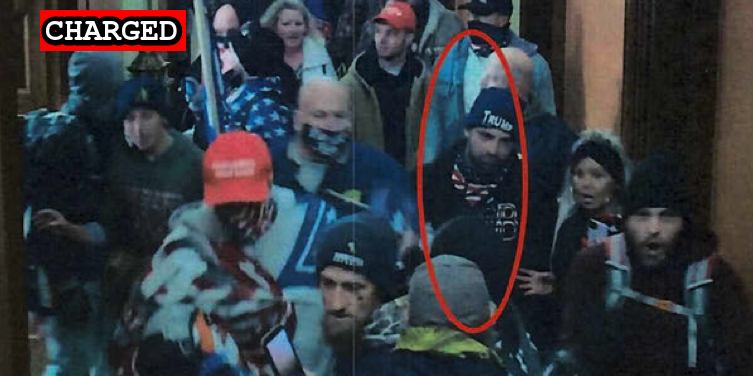
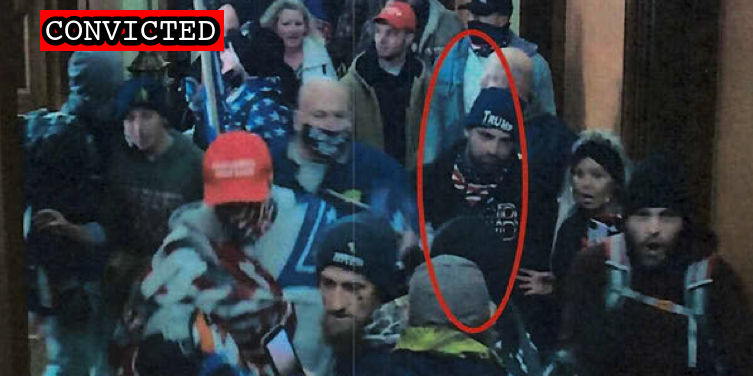
Latest import

Changed region(s): [[0.0611, 0.0293, 0.3054, 0.1463]]

diff --git a/commands/suspect-import.ts b/commands/suspect-import.ts
@@ -41,7 +41,7 @@ const getNameSet = (): Set<string> => {
 const importGw = async (nameSet: Set<string>) => {
   info("Importing suspects from GW site");
 
-  const html = await axios.get("https://extremism.gwu.edu/Capitol-Hill-Cases");
+  const html = await axios.get("https://extremism.gwu.edu/capitol-hill-siege-cases");
 
   const root = parse(html.data);
   const divs: HTMLElement[] = root.querySelectorAll(".panel-body");

diff --git a/docs/suspects/stewart-rhodes.html b/docs/suspects/stewart-rhodes.html
@@ -1,0 +1,4 @@
+---
+layout: redirect
+slug: elmer-rhodes.md
+---

diff --git a/docs/_suspects/larry-stackhouse.md b/docs/_suspects/larry-stackhouse.md
@@ -4,15 +4,15 @@ lastName: Stackhouse
 hashtag: LarryStackhouse
 aka:
 residence: New Jersey
-status: Charged
+status: Convicted
 date: 2021-03-02
 charged: 2021-03-02
 indicted:
-convicted:
+convicted: 2022-02-04
 sentenced:
 dismissed:
 deceased:
-plea_hearing:
+plea_hearing: 2022-02-04
 sentencing:
 age: 33
 occupation:
@@ -34,9 +34,14 @@ published: true
 caseNumber:
 videos:
 charges:
+- code: 18 USC § 5104(e)(2)(G)
+  title: Parading, demonstrating or picketing in a Capitol building
+  url: https://www.law.cornell.edu/uscode/text/40/5104
+  felony: false
 sentence:
 ---
 - [News Report](https://www.nj.com/camden/2021/03/nj-man-charged-in-capitol-riot-identified-by-coworkers-had-called-out-that-day-feds-say.html)
 - [Complaint](https://www.justice.gov/usao-dc/case-multi-defendant/file/1379366/download)
 - [Statement of Facts](https://www.justice.gov/usao-dc/case-multi-defendant/file/1379371/download)
 - [Information](https://www.justice.gov/usao-dc/case-multi-defendant/file/1379361/download)
+- [Plea Agreement](https://extremism.gwu.edu/sites/g/files/zaxdzs2191/f/Larry%20Stackhouse%20Plea%20Agreement.pdf)

diff --git a/docs/_suspects/jake-maxwell.md b/docs/_suspects/jake-maxwell.md
@@ -1,0 +1,41 @@
+---
+name: Jake Maxwell
+lastName: Maxwell
+hashtag:
+aka:
+residence: Georgia
+status: Charged
+date: 2022-02-09
+charged: 2022-02-09
+indicted:
+convicted:
+sentenced:
+dismissed:
+deceased:
+plea_hearing:
+sentencing:
+age:
+occupation:
+affiliations:
+jurisdiction: Federal
+image: /images/preview/jake-maxwell.jpg
+suspect: jake-maxwell.jpg
+booking:
+courtroom:
+courthouse:
+raid:
+perpwalk:
+quote:
+title: Jake Maxwell charged on February 9, 2022
+description: Click for latest case details. Suspects innocent until proven guilty.
+author: seditiontrack
+layout: suspect
+published: false
+caseNumber:
+videos:
+charges:
+sentence:
+---
+
+- [News Report]()
+- [Statement of Facts](https://extremism.gwu.edu/sites/g/files/zaxdzs2191/f/Jake%20Maxwell%20Statement%20of%20Facts.pdf)

diff --git a/docs/_suspects/elmer-rhodes.md b/docs/_suspects/elmer-rhodes.md
@@ -1,8 +1,8 @@
 ---
-name: Stewart Rhodes
+name: Elmer Rhodes
 lastName: Rhodes
-hashtag: 
-aka: Elmer Stewart Rhodes III
+hashtag:
+aka: Stewart Rhodes, Elmer Stewart Rhodes III
 residence: Texas
 status: Indicted
 date: 2022-01-12
@@ -31,10 +31,10 @@ description: Click for latest case details. Suspects innocent until proven guilt
 author: seditiontrack
 layout: suspect
 published: true
-caseNumber:
+caseNumber: 0:22-cr-15
 videos:
 charges:
 sentence:
 ---
 - [News Report](https://www.cnn.com/2022/01/13/politics/oathkeeper-rhodes-arrested-doj/index.html)
-- [Indictment](https://www.justice.gov/opa/press-release/file/1462481/download)
+- [Indictment](https://www.justice.gov/usao-dc/case-multi-defendant/file/1470536/download)
